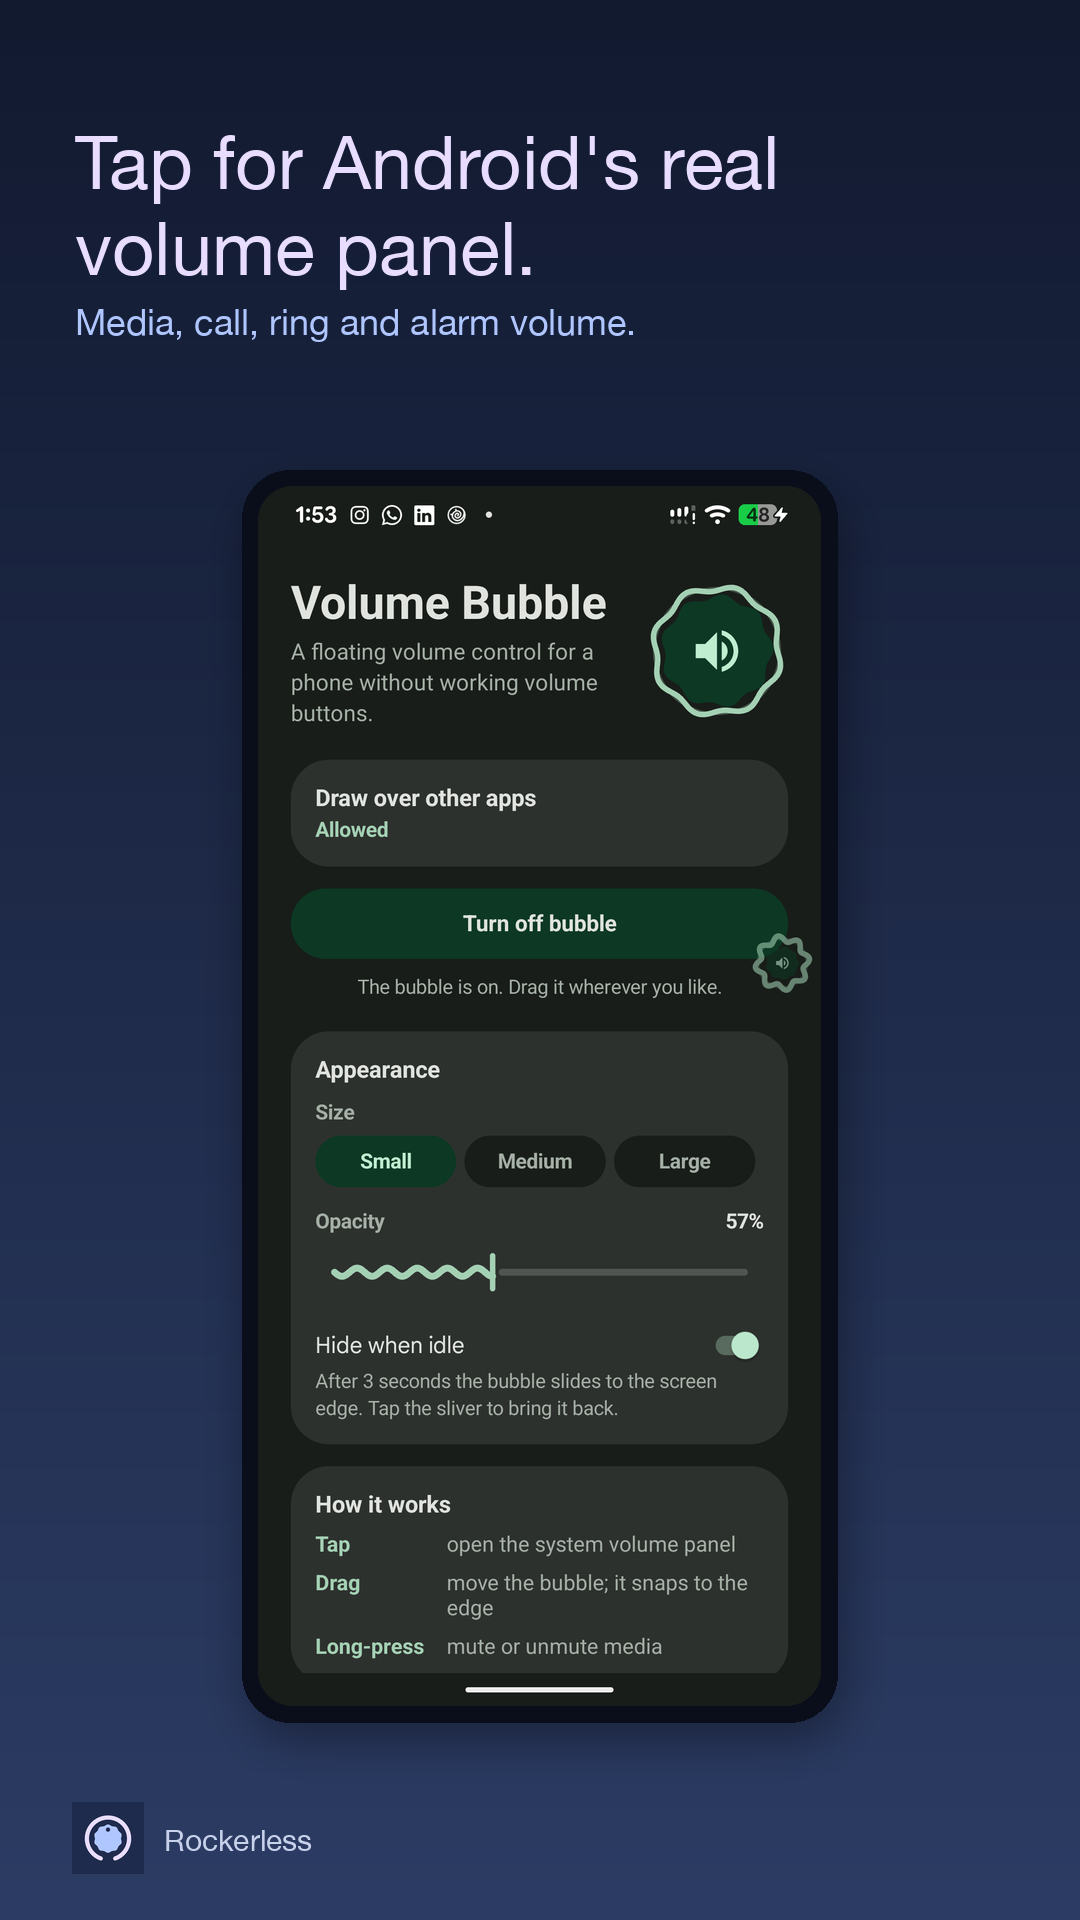
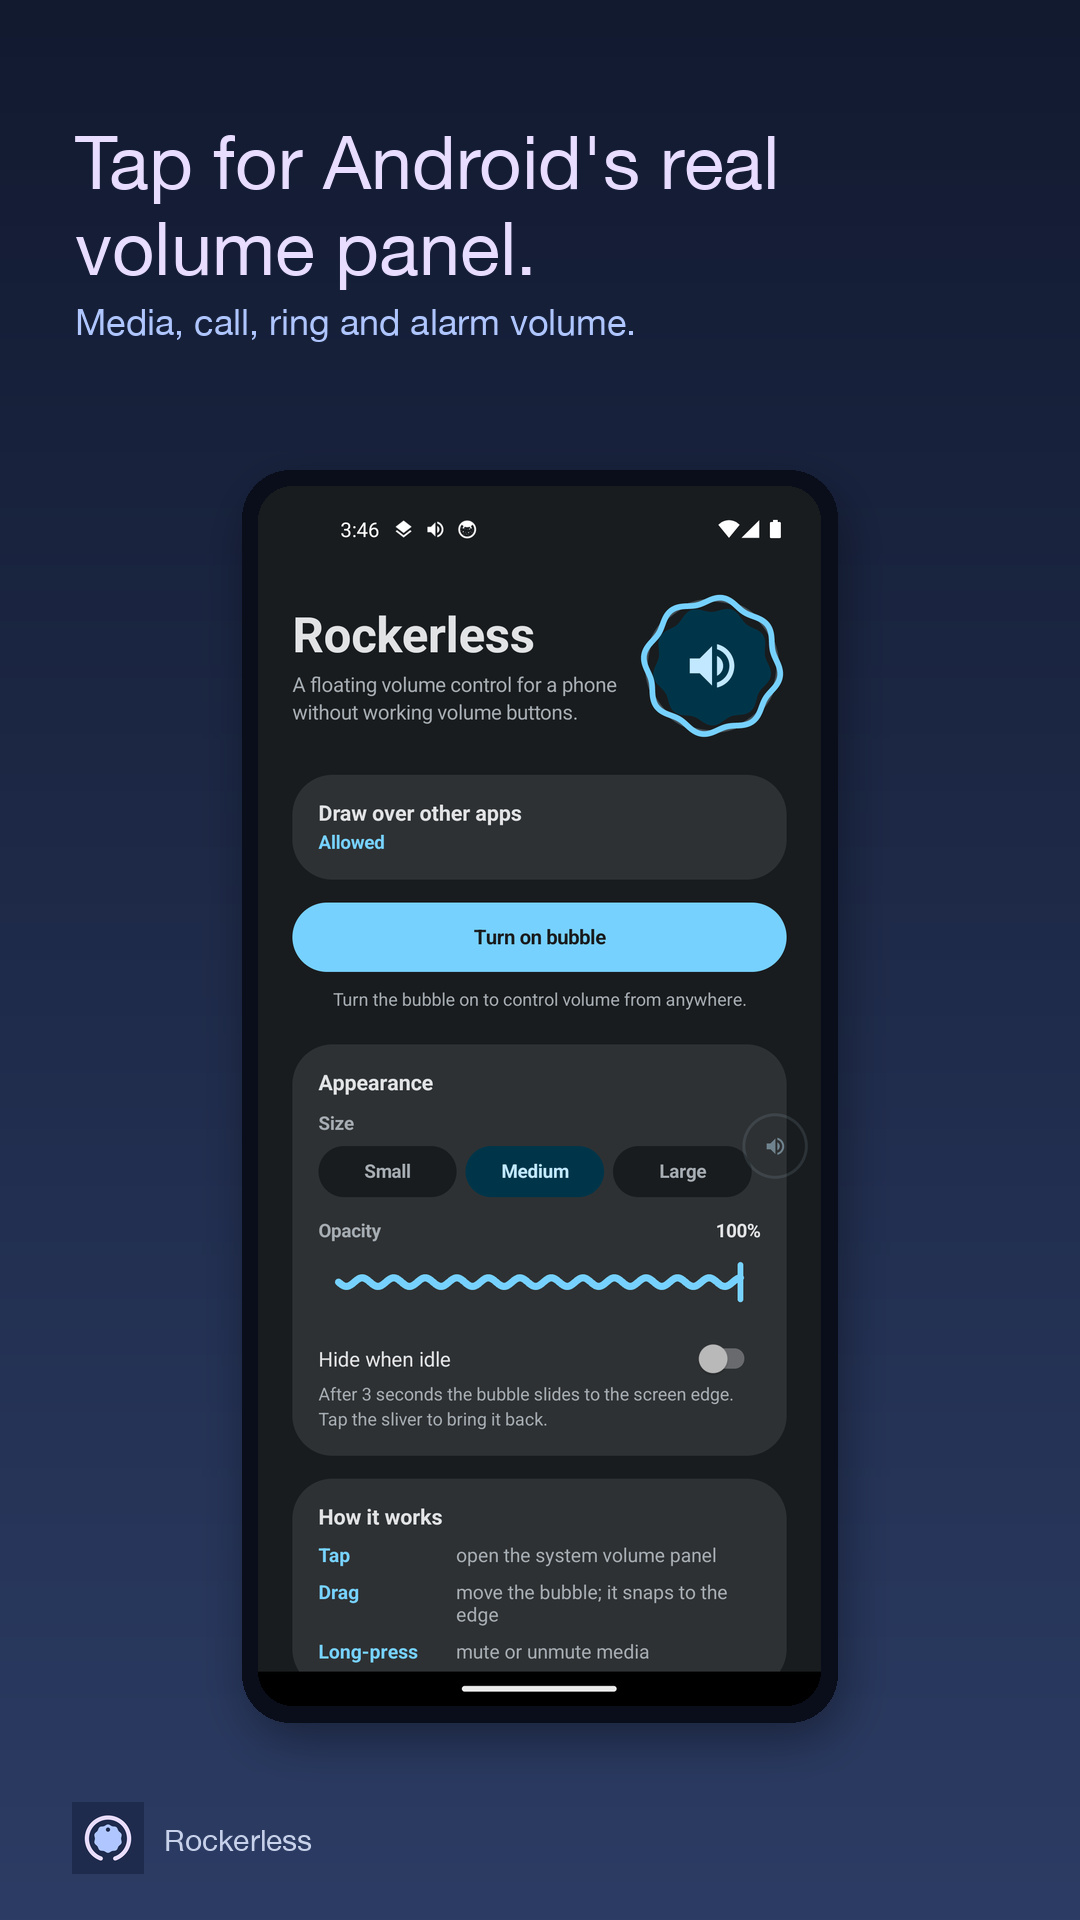
Rename app to Rockerless (1.2.2)
Launcher label, in-app title and notification now say Rockerless, matching the
Play listing. Store screenshots 01-02 recaptured on the new build.

Changed region(s): [[0.2444, 0.4062, 0.7639, 0.9062], [0.275, 0.25, 0.55, 0.375], [0.5806, 0.25, 0.7333, 0.4062]]

diff --git a/app/src/main/java/app/volumebubble/MainActivity.kt b/app/src/main/java/app/volumebubble/MainActivity.kt
@@ -75,7 +75,7 @@ class MainActivity : Activity() {
         header.addView(
             LinearLayout(this@MainActivity).apply {
                 orientation = LinearLayout.VERTICAL
-                addView(Ui.text(this@MainActivity, "Volume Bubble", 34f, palette.onSurface, Typeface.BOLD))
+                addView(Ui.text(this@MainActivity, getString(R.string.app_name), 34f, palette.onSurface, Typeface.BOLD))
                 addView(
                     Ui.text(
                         this@MainActivity,
